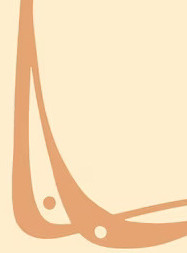
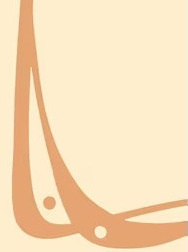
update

diff --git a/public/articles/grid_article01.html b/public/articles/grid_article01.html
@@ -10,25 +10,23 @@
 </head>
 <body>
     <div class="grid_container">    
-        <div class="grid_item" id="one">1
-            <img src="" alt="">
-        </div>
-        <div class="grid_item" id="two">2</div>
-        <div class="grid_item" id="three">3</div>
-        <div class="grid_item" id="four">4</div>
-        <div class="grid_item" id="five">5</div>
-        <div class="grid_item" id="six">6</div>
-        <div class="grid_item" id="seven">7</div>
-        <div class="grid_item" id="eight">8</div>
-        <div class="grid_item" id="nine">9</div>
+        <div class="grid_item" id="one"></div>
+        <div class="grid_item" id="two"></div>
+        <div class="grid_item" id="three"></div>
+        <div class="grid_item" id="four"></div>
+        <div class="grid_item" id="five"></div>
+        <div class="grid_item" id="six"></div>
+        <div class="grid_item" id="seven"></div>
+        <div class="grid_item" id="eight"></div>
+        <div class="grid_item" id="nine"></div>
     </div>
-        <!-- <div id="article_container"><br>
+        <div id="article_container"><br>
             <div id="back_links">
             <div id="home_link" ><a href="../../index.html">Home</a></div>
             <div id="article_link" ><a href="../../articles_page.html">Articles List</a></div>
-        </div>         -->
+        </div>        
         
-        <!-- <span id="article_title">#42 HSR</span><br>
+        <span id="article_title">#42 HSR</span>
 
         <div class="article">
             The moral code derived from scripture is an admixture of two sensibilities.The emotional reactions that are experienced when confronted with infractions of various kinds are different for different infractions. For most injunctions the root is a sense of injustice and the alleviation of the fear. For some the injunction is against a sense of disgust.
@@ -37,10 +35,10 @@
             A second reason for developing commonly held morality would be the case of health and cleanliness. This is possibly related to safety but that distinction is for another time. The point here is that moral injunctions against theft, for example, have different grounds than that of handling a cadaver. The latter has to do with health and cleanliness and the reaction to infractions against norms of this kind is properly disgust whereas infractions against the former is properly anger. The issue becomes complicated when one reverses the logic and defines everything that one feels disgust for as somehow equally deserving of moral sanction.
             My point may be illustrated by comparing the unjust actions toward a person and doing the same injustice to a cadaver, what we call the desecration of a body. One reacts with anger towards the former and disgust with the latter. The difference between the two is that the latter is largely an aesthetic infraction.
             For this reason I believe that the traditional view expressed by the HSR is based on aesthetics and aesthetic taste and not on any sense of justice or injustice. It is based on feelings of a sense of cleanliness not safety.
-            Not only should the HSR, and its defense of a traditional deontological moral structure, be questioned as desperately needing an update. From the position that a moral code is a social construct and not just a fiat declaration, the HSR position though well defended biblically is not defensible creationally. Now we have a second argument criticizing the traditional position on homosexuality for its reliance on homosexuality generating the same aesthetic reactions of disgust that are generated from infractions against health codes. -->
+            Not only should the HSR, and its defense of a traditional deontological moral structure, be questioned as desperately needing an update. From the position that a moral code is a social construct and not just a fiat declaration, the HSR position though well defended biblically is not defensible creationally. Now we have a second argument criticizing the traditional position on homosexuality for its reliance on homosexuality generating the same aesthetic reactions of disgust that are generated from infractions against health codes.
 
             <div id="mediaAttribution"><p>©2023 BlushMedia.ca</p></div> 
-        <!-- </div>  -->
+        </div> 
 
 </body>
 </html>

diff --git a/public/css/grid_style.css b/public/css/grid_style.css
@@ -9,28 +9,26 @@
 }
 .grid_item {
     /* background-color: red; */
-    color: #aa0044;
+    /* color: #aa0044;
     border: 1px solid #aa0044;
     padding: 20px;
     font-size: 30px;
     text-align: center; grid-auto-flow: row;
-    text-align: center; grid-auto-flow: column;
+    text-align: center; grid-auto-flow: column; */
 }
 #one {
     background: url("../images/grid_border/border01-0-0.jpg");
 }
 #two {
     background: url("../images/grid_border/border01-1-0.jpg");
-    /* width: 100%;
-    height: 100%; */
-    object-fit: cover;
+    background-repeat: round;
 }
 #three {
     background: url("../images/grid_border/border01-2-0.jpg");
 }
 #four {
     background: url("../images/grid_border/border01-0-1.jpg");
-
+    background-repeat: round;
 }
 #five {
     background: url("../images/grid_border/border01-1-1.jpg");
@@ -38,14 +36,14 @@
 }
 #six {
     background: url("../images/grid_border/border01-2-1.jpg");
-
+    background-repeat: round;
 }
 #seven {
     background: url("../images/grid_border/border01-0-2.jpg");
 }
 #eight {
     background: url("../images/grid_border/border01-1-2.jpg");
-
+    background-repeat: round;
 }
 #nine {
     background: url("../images/grid_border/border01-2-2.jpg");

diff --git a/articles_page.html b/articles_page.html
@@ -22,7 +22,7 @@
             <!-- <div id="menu"> -->
             <div id="gallery_menu">
                 <h2 id="photoLinkTitle">Articles in the Works</h2><br>
-                <a class="photoLink" href="public/articles/article01.html">#42 HSR</a><br>
+                <a class="photoLink" href="public/articles/grid_article01.html">#42 HSR</a><br>
                 <a class="photoLink" href="public/articles/article02.html">#42 HSR 02</a><br>
                 <a class="photoLink" href="public/articles/article03.html">#42 HSR 03</a><br>
                 <a class="photoLink" href="public/articles/article04.html">article 4</a><br>

diff --git a/public/css/index_style.css b/public/css/index_style.css
@@ -33,7 +33,7 @@ body {
     z-index: 10;    
     height: 100vh;
     width: 100vw;
-    background: url("../images/border01.jpg");
+    /* background: url("../images/border01.jpg"); */
     background-repeat: no-repeat;
     background-size: cover;
     position: absolute;
@@ -63,7 +63,7 @@ body {
     width: 125px;
     position: relative;
     display: block;
-    top: 135px;
+    top: 80px;
     margin: auto;
     color: #aa0044;
     font-size: 24pt;

diff --git a/index.html b/index.html
@@ -15,8 +15,9 @@
     <div id="container">
         <div id="slide">
             <div id="menu">
+                <a class="photoLink" href="articles_page.html">- Articles</a><br>                
                 <a class="photoLink" href="gallery.html">- Gallery</a><br>                   
-                <a class="photoLink" href="articles_page.html">- Articles</a><br>
+
             </div>                
         </div>
     </div>
